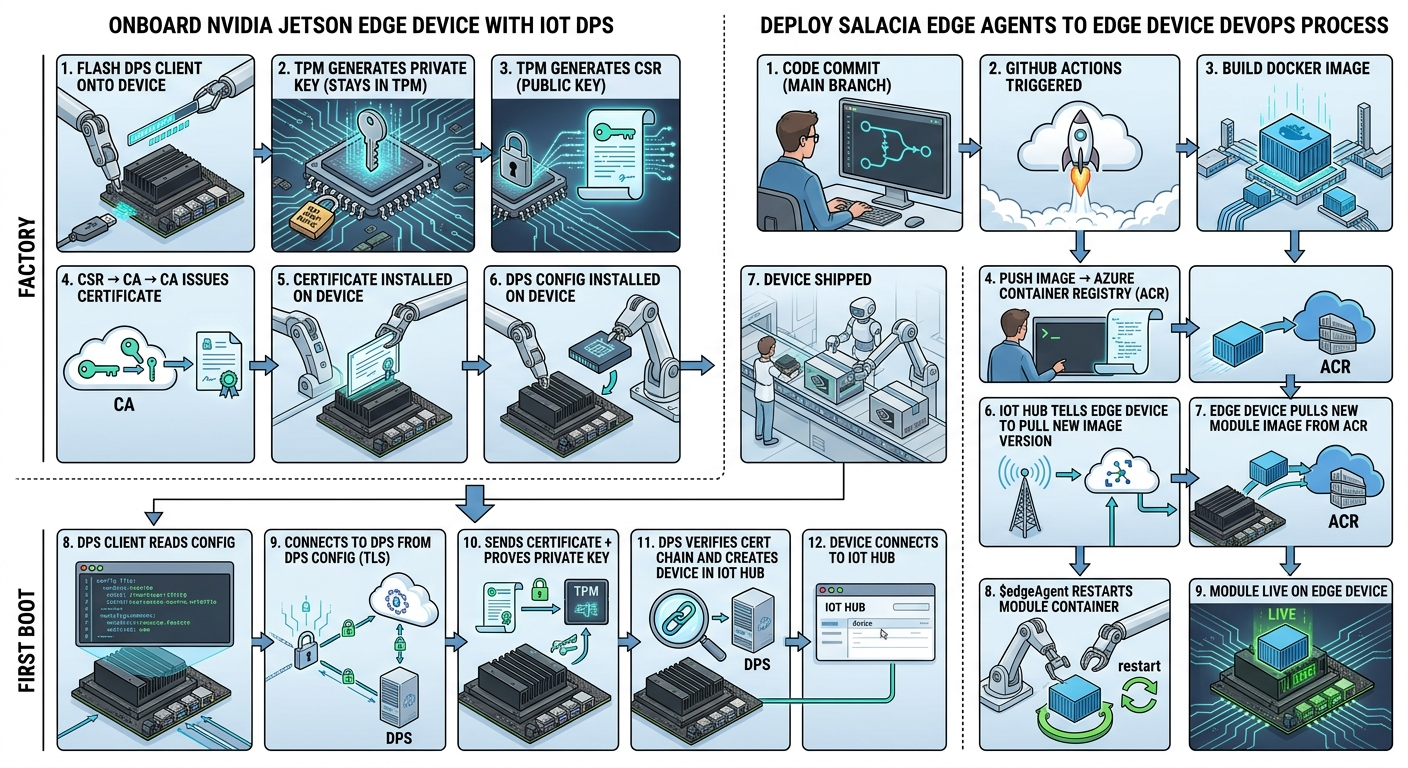
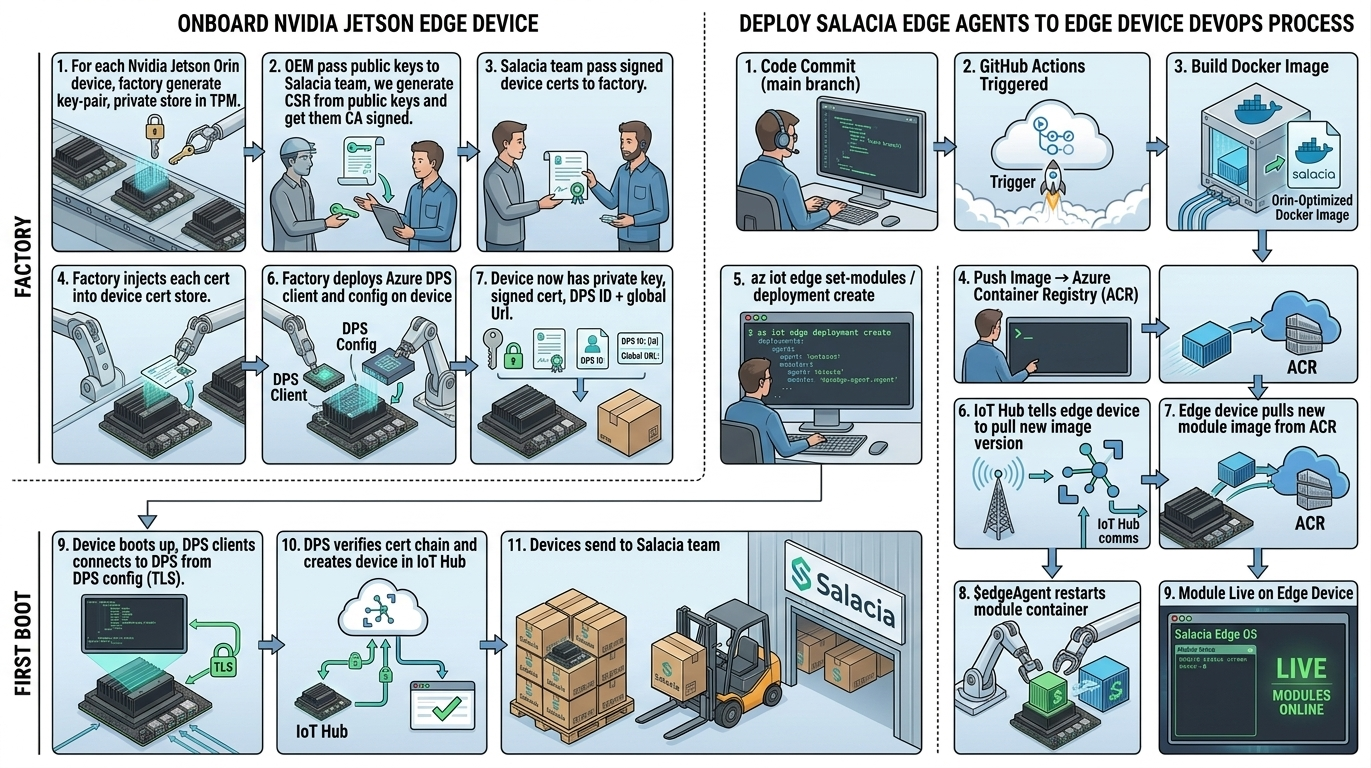
updated slides

diff --git a/docs/slides/architecture/devops/prompt.md b/docs/slides/architecture/devops/prompt.md
@@ -15,28 +15,25 @@ Finish: Clean surfaces, crisp edges, and sophisticated tech-design.
 
 ## tasks
 
-* create the infographic of 2 devops process step by step
+* create the infographic of 2 silo separated devops process step by step
+* clearly separate 2 processes
 * do not include title
+* Do not duplicate graphics
+* use uploaded image as style guide
 
-## onboard Nvidia Jetson edge device with IoT DPS
+## onboard Nvidia Jetson edge device
 
 FACTORY
-├─ 1. Flash DPS client onto device
-├─ 2. TPM generates private key (stays in TPM)
-├─ 3. TPM generates CSR (public key)
-├─ 4. CSR → CA → CA issues certificate
-├─ 5. Certificate installed on device
-├─ 6. DPS config installed on device
-└─ 7. Device shipped
-
-        │
-        ▼
-FIRST BOOT
-├─ 8. DPS client reads config
-├─ 9. Connects to DPS from DPS config (TLS)
-├─ 10. Sends certificate + proves private key
-├─ 11. DPS verifies cert chain and creates device in IoT Hub
-└─ 12. Device connects to IoT Hub
+├─ 1. for each Nvidia Jetson Odin device, factory generate key-pair, private store in TPM. 
+|- 2. OEM pass public keys to Salacia team, we generate CSR from public keys and get them CA signed.
+├─ 3. Salacia team pass signed device certs to factory.
+├─ 4. Factory injects each cert into device cert store
+├─ 6. Factory deploys Azure DPS client and config on device
+|- 7. device now has private key, signed cert, DPS ID + global Url
+|- 8. Devices send to Salacia team
+├─ 9. Boot up devices, DPS clients connects to DPS from DPS config (TLS)
+├─ 10. DPS verifies cert chain and creates device in IoT Hub
+└─ 11. Devices send to Salacia team
 
 ## deploy Salacia Edge Agents to edge device devops process
 

diff --git a/docs/slides/overview/prompt.md b/docs/slides/overview/prompt.md
@@ -21,18 +21,18 @@ Finish: Clean surfaces, crisp edges, and sophisticated tech-design.
 
 * create infographics for overview 
 * do not include title
+* du not duplicate topics
 * ensure numbering in each topic
 * Give it a Sea port theme
 
 ## overview
-1 Challenge Recap & Assumptions
-2 Anatomy of a Port
-3 Systems ued in a Port
-4 Problems with Mainstream Terminal OS
-5 Current vs Futre Business State with Salacia
-6 Salacia – The Agentic Terminal OS 
-7 Salacia’s Agent Engineering 
-8 Software Architecture
-9 Azure Architecture
-12 IoT DevOps
-13 Demo of Salacia
+1. Anatomy of a Port
+2. Systems used in a Port
+3. Problems with Mainstream Terminal OS
+4. Current vs Future Business State with Salacia
+5. Salacia – The Agentic Terminal OS 
+6. Salacia’s Agent Engineering 
+7. Software Architecture
+8. Azure Architecture
+9. DevOps - IoT
+10. Demo of Salacia
